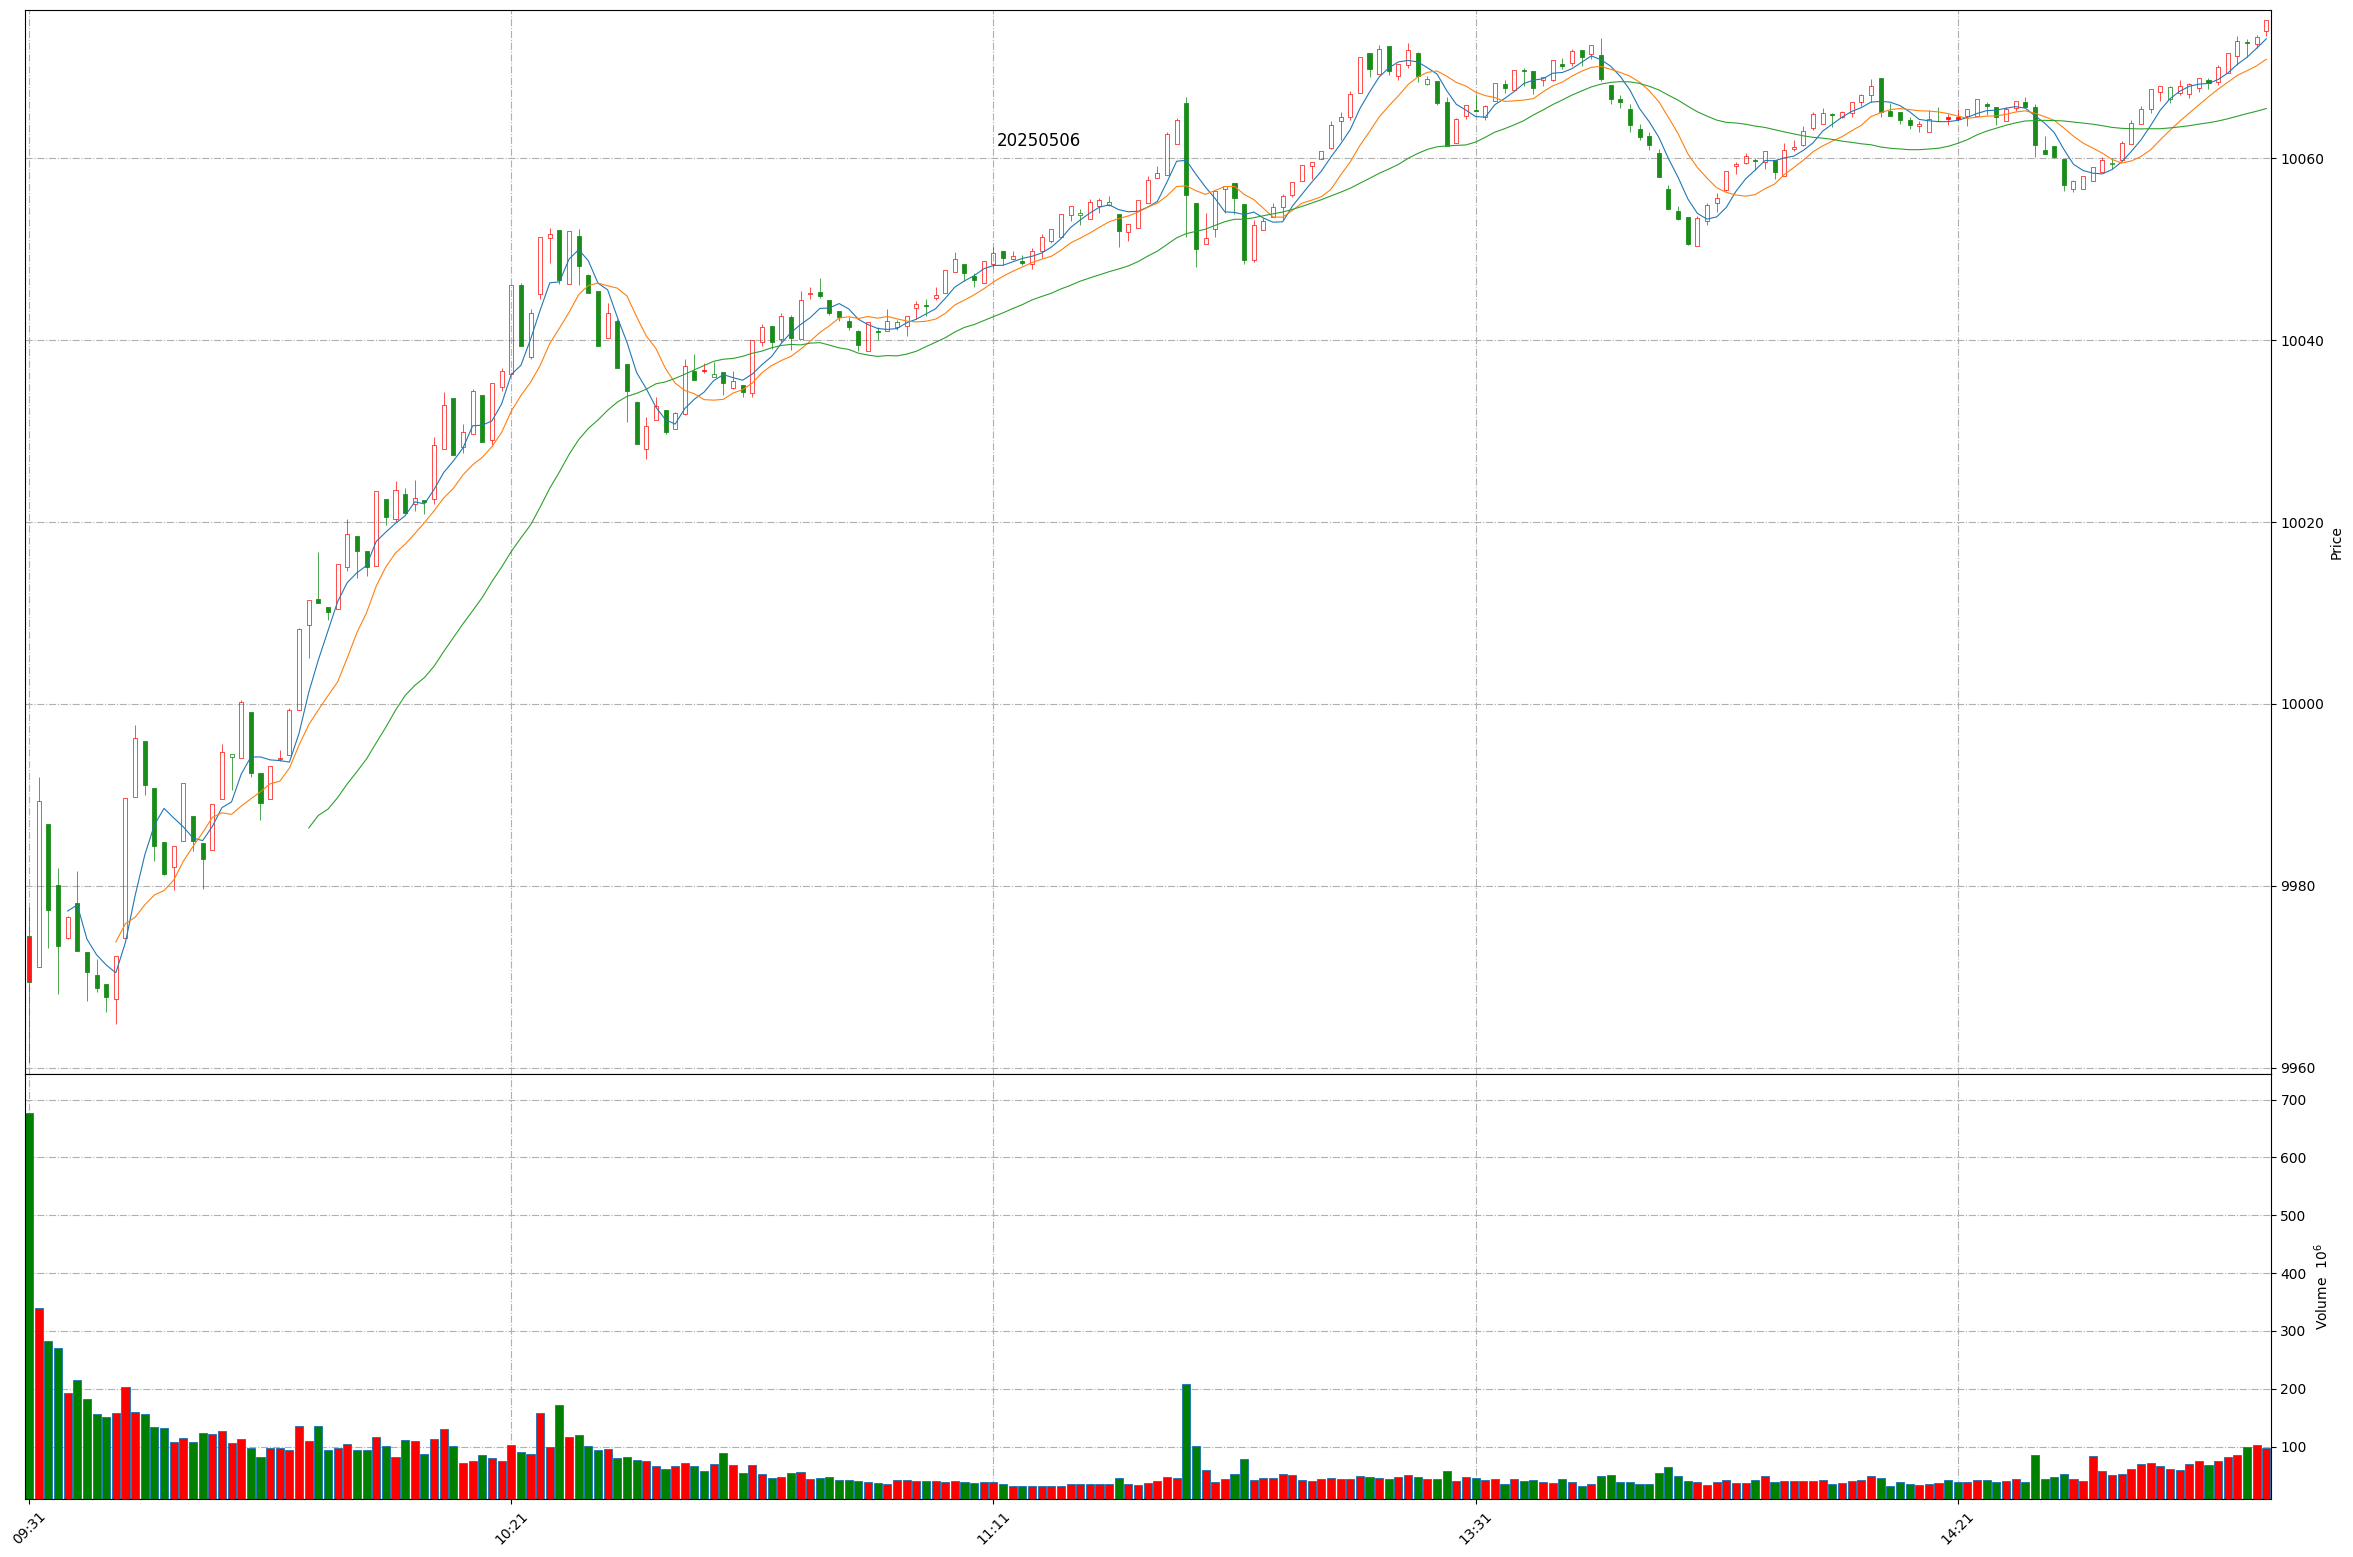
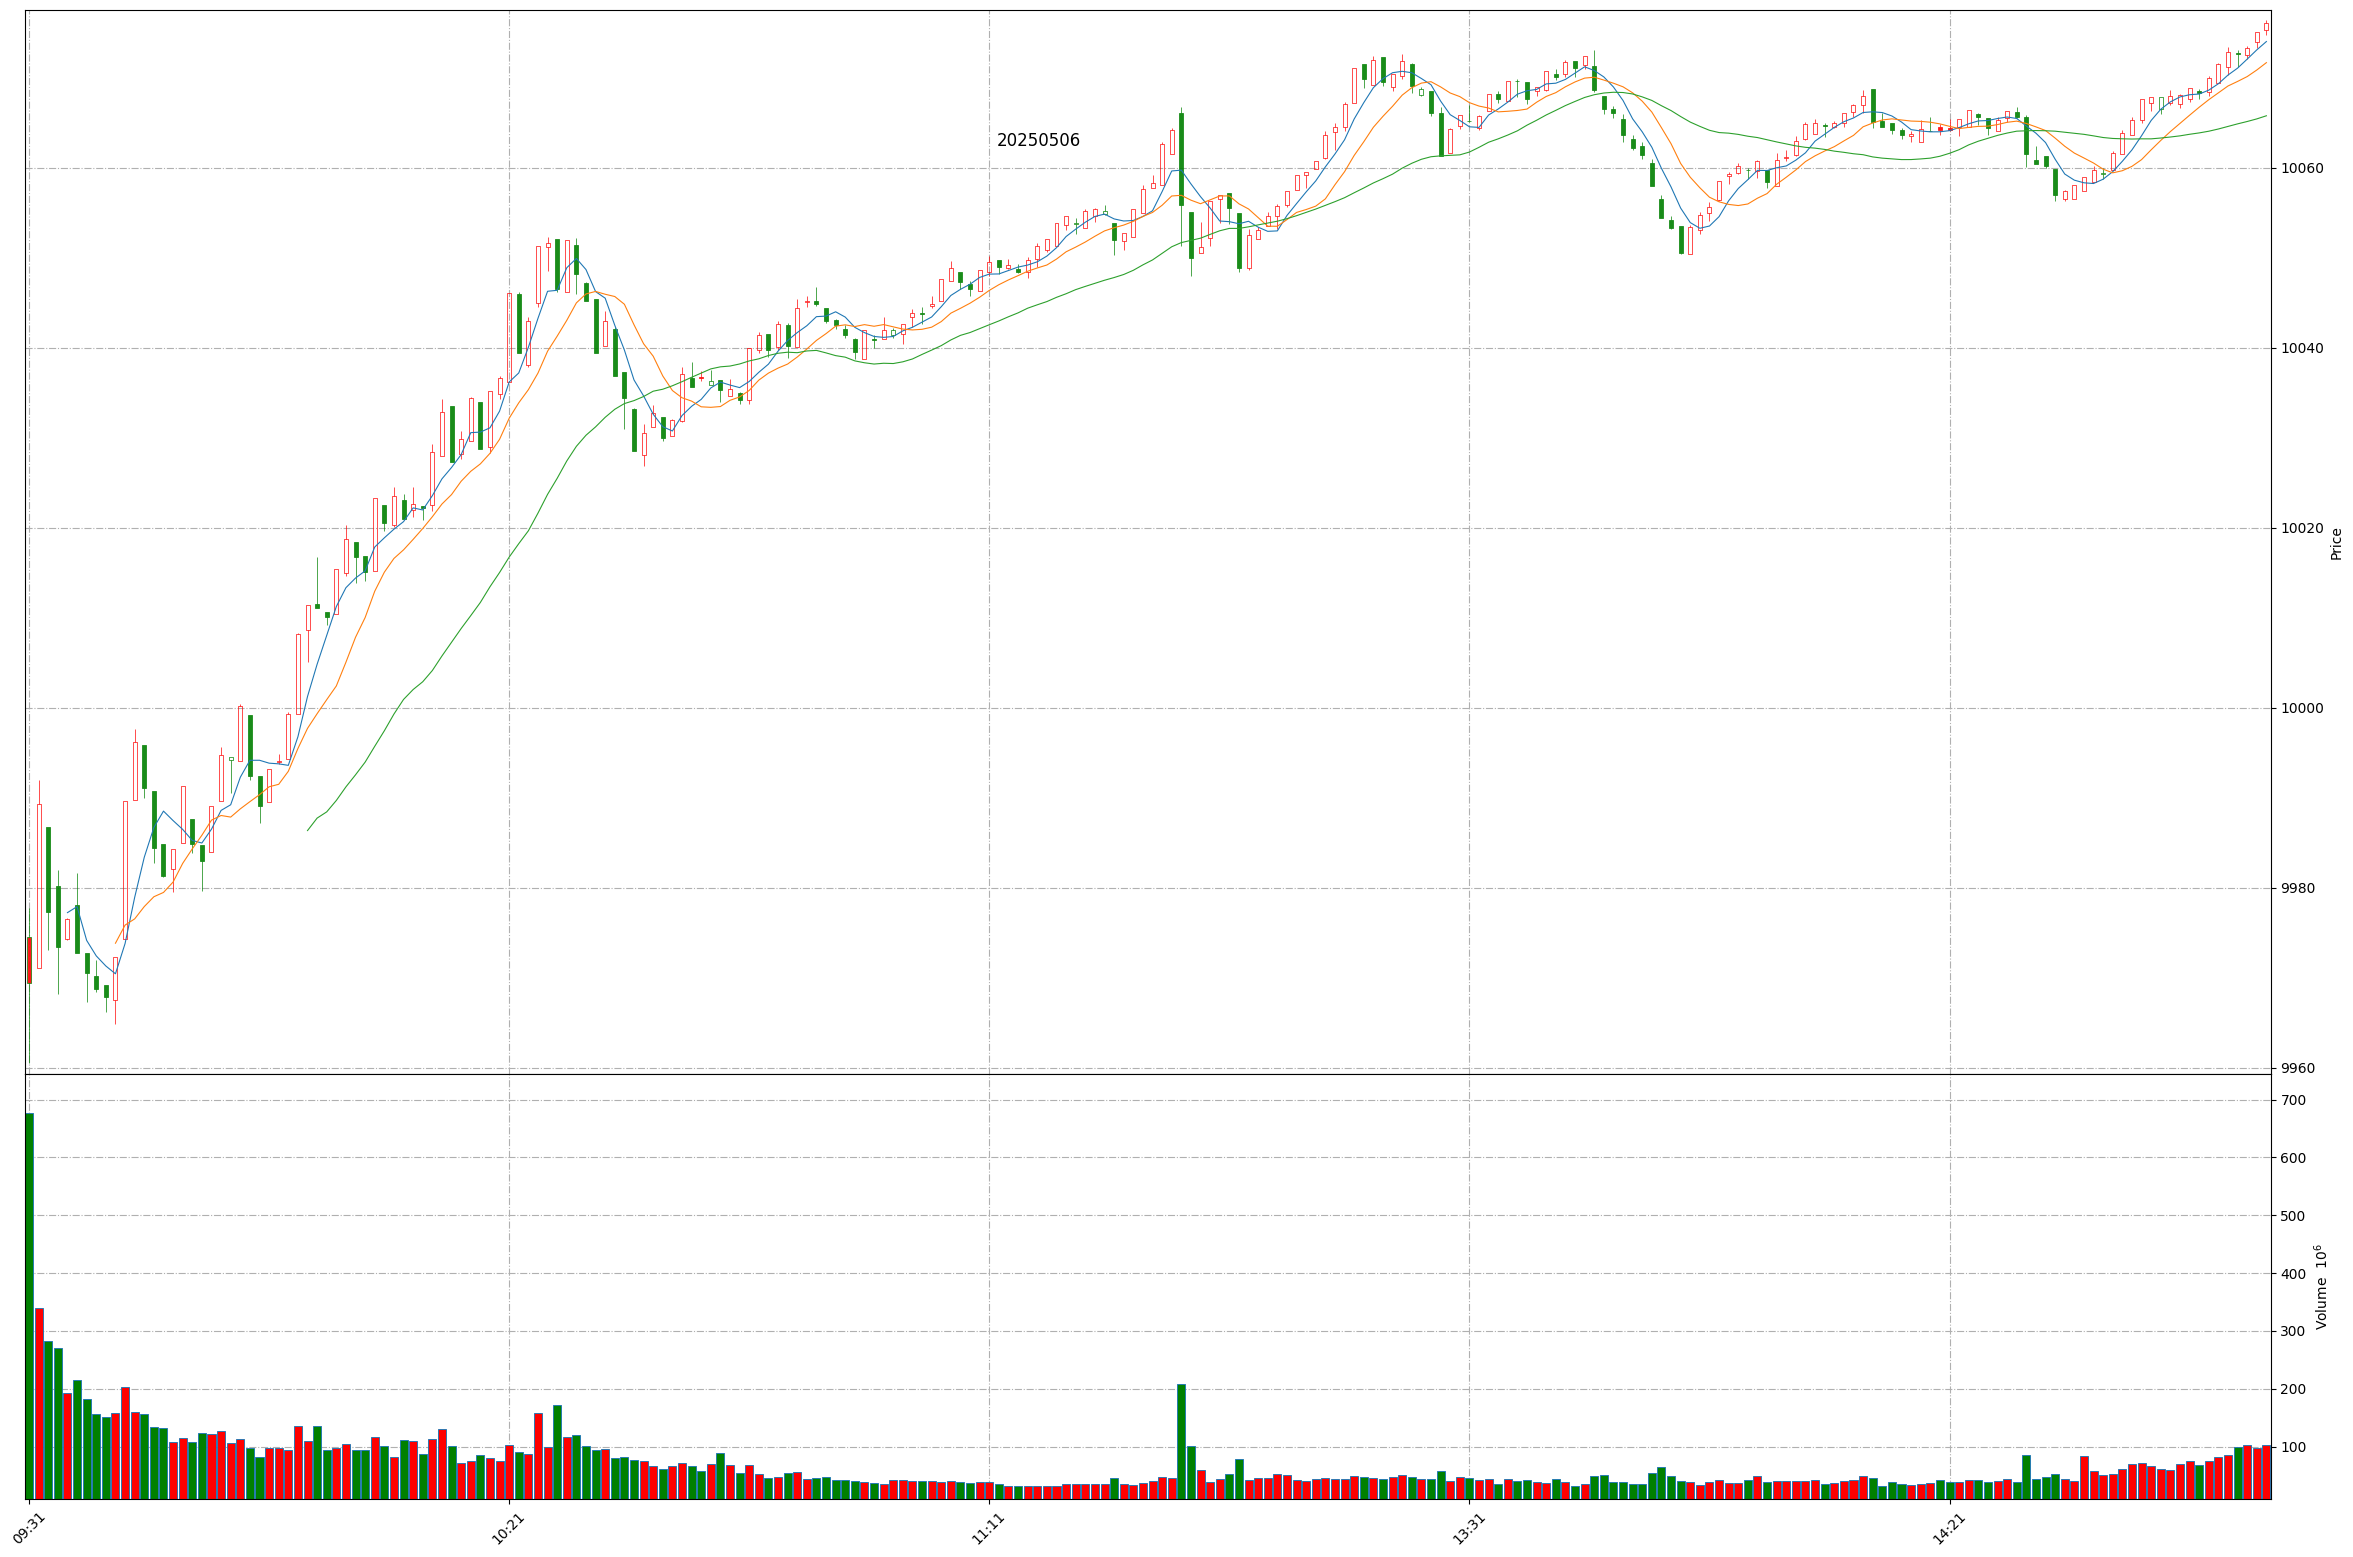
Github action update at 2025-05-06 14:54:13.

diff --git a/README.md b/README.md
@@ -1,11 +1,11 @@
 
 # Daily-A-share-market-quotes 每日 A 股指数（5min 更新）- 20250506
 
-### 上证指数 20250506 14:53
+### 上证指数 20250506 14:54
 ![](./fig/2025/5/20250506-sh000001.png)
 
-### 深证成指 20250506 14:53
+### 深证成指 20250506 14:54
 ![](./fig/2025/5/20250506-sz399001.png)
 
-### 北证50 20250506 14:53
+### 北证50 20250506 14:54
 ![](./fig/2025/5/20250506-bj899050.png)
